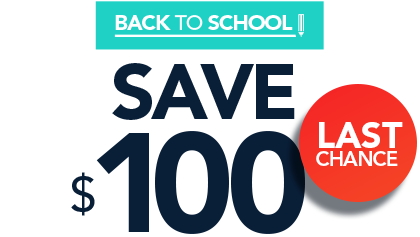
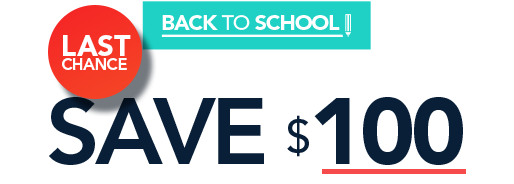
Updates inlay image

diff --git a/src/pages/courses-and-tuition/professional-caregiving/index.tsx b/src/pages/courses-and-tuition/professional-caregiving/index.tsx
@@ -344,8 +344,7 @@ const Page: React.FC = () => {
 
       <a className="anchor" id="promo"></a>
       <section>
-        <div className="container text-dark text-center">
-           <h2>LIMITED TIME OFFER</h2>
+        <div className="container text-dark text-center">          
            <p><img className="img-fluid" src={require('../../../images/promo-inlay.png')} alt="Promo Save $100" /></p>
            <p className="lead mb-5">Until September 18th, save an extra $100 on your professional caregiver course tuition. This discount will be automatically applied when you enroll.</p>
            <p><a className="btn btn-secondary btn-lg" href="https://enroll.qcwellnessstudies.com/?c[]=fc">ENROLL NOW</a></p>

diff --git a/src/pages/courses-and-tuition/sleep-consultant/index.tsx b/src/pages/courses-and-tuition/sleep-consultant/index.tsx
@@ -300,8 +300,7 @@ const Page: React.FC = () => {
 
       <a className="anchor" id="promo"></a>
       <section>
-        <div className="container text-dark text-center">
-           <h2>LIMITED TIME OFFER</h2>
+        <div className="container text-dark text-center">         
            <p><img className="img-fluid" src={require('../../../images/promo-inlay.png')} alt="Promo Save $100" /></p>
            <p className="lead mb-5">Until September 18th, save an extra $100 on your sleep consultant course tuition. This discount will be automatically applied when you enroll.</p>
            <p><a className="btn btn-secondary btn-lg" href="https://enroll.qcwellnessstudies.com/?c[]=sl">ENROLL NOW</a></p>
